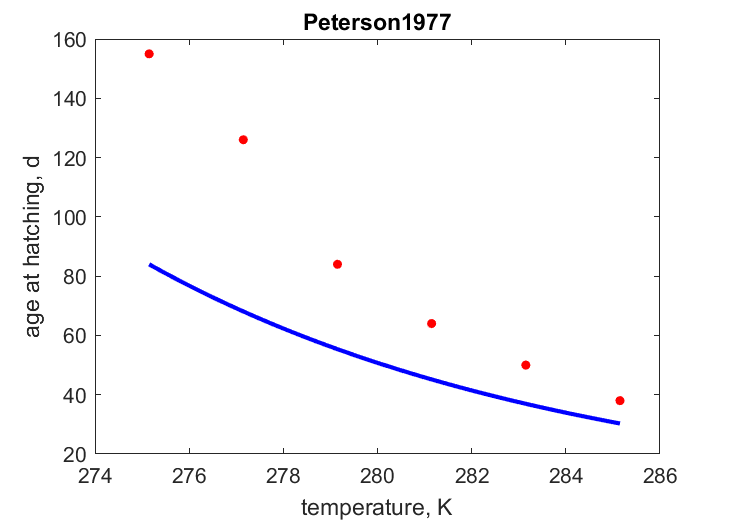
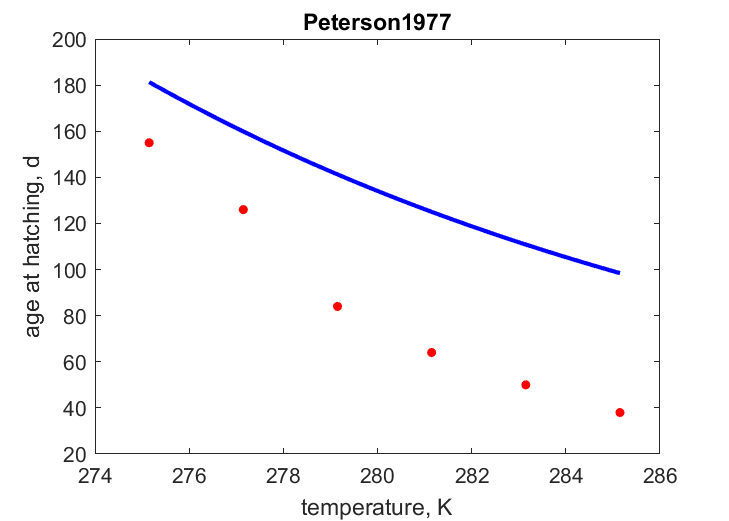
Made Arrhenius temperature a free parameter

diff --git a/Salmo_salar_res.html b/Salmo_salar_res.html
@@ -44,7 +44,7 @@
   </div>
 
   <div class="par">
-  <h4>COMPLETE = NaN; MRE =    0.821; SMSE =    0.845 </h4>
+  <h4>COMPLETE = NaN; MRE =    0.239; SMSE =    0.201 </h4>
   </div>
 
   <p class="clear"></p>
@@ -53,30 +53,31 @@
   <h2>Data & predictions</h2>
   <TABLE id="prd">
     <TR  class="head"><TH>data</TH> <TH>prd</TH> <TH>RE</TH>  <TH>symbol</TH> <TH>units</TH> <TH>description</TH> </TR>
-    <TR><TD>196</TD> <TD>70.53</TD> <TD>0.6402</TD> <TD>ab</TD> <TD>d</TD> <TD>age at birth</TD></TR>
-    <TR><TD>827.3</TD> <TD>138.1</TD> <TD>0.8331</TD> <TD>aj</TD> <TD>d</TD> <TD>age at metamorphosis</TD></TR>
-    <TR><TD>1335</TD> <TD>934.9</TD> <TD>0.2997</TD> <TD>ap</TD> <TD>d</TD> <TD>age at puberty</TD></TR>
-    <TR><TD>4748</TD> <TD>1567</TD> <TD>0.67</TD> <TD>am</TD> <TD>d</TD> <TD>life span</TD></TR>
-    <TR><TD>2.09</TD> <TD>0.369</TD> <TD>0.8235</TD> <TD>Lh</TD> <TD>cm</TD> <TD>total length at hatching</TD></TR>
-    <TR><TD>2.825</TD> <TD>0.3713</TD> <TD>0.8686</TD> <TD>Lb</TD> <TD>cm</TD> <TD>total length at birth</TD></TR>
-    <TR><TD> 12</TD> <TD>0.5665</TD> <TD>0.9528</TD> <TD>Lj</TD> <TD>cm</TD> <TD>total length at metamorphosis</TD></TR>
-    <TR><TD> 95</TD> <TD>6.676</TD> <TD>0.9297</TD> <TD>Li</TD> <TD>cm</TD> <TD>ultimate total length</TD></TR>
-    <TR><TD>0.09</TD> <TD>0.0003384</TD> <TD>0.9962</TD> <TD>V0</TD> <TD>cm^3</TD> <TD>egg volume</TD></TR>
-    <TR><TD>0.035</TD> <TD>6.768e-05</TD> <TD>0.9981</TD> <TD>Wd0</TD> <TD>g</TD> <TD>dry egg weight</TD></TR>
-    <TR><TD>0.1488</TD> <TD>0.0002409</TD> <TD>0.9984</TD> <TD>Wwh</TD> <TD>g</TD> <TD>wet weight at hatching</TD></TR>
-    <TR><TD>0.16</TD> <TD>0.0002455</TD> <TD>0.9985</TD> <TD>Wwb</TD> <TD>g</TD> <TD>wet weight at birth</TD></TR>
-    <TR><TD> 25</TD> <TD>0.0008721</TD> <TD>  1</TD> <TD>Wwj</TD> <TD>g</TD> <TD>wet weight at metamorphosis</TD></TR>
-    <TR><TD>757</TD> <TD>1.557</TD> <TD>0.9979</TD> <TD>E0</TD> <TD>J</TD> <TD>egg reserve energy</TD></TR>
-    <TR><TD>39.7</TD> <TD>1.253</TD> <TD>0.9684</TD> <TD>Ri</TD> <TD>#/d</TD> <TD>maximum reprod rate</TD></TR>
-    <TR><TD colspan="2">see figure</TD> <TD>0.3814</TD> <TD>Tah</TD> <TD colspan="2">temperature, <font color="blue"><i>vs.</i></font> age at hatching</TD>
-    <TR><TD colspan="2">see figure</TD> <TD>0.8778</TD> <TD>tL</TD> <TD colspan="2">time since birth, <font color="blue"><i>vs.</i></font> total length</TD>
-    <TR><TD colspan="2">see figure</TD> <TD>0.5501</TD> <TD>LWw</TD> <TD colspan="2">total length, <font color="blue"><i>vs.</i></font> wet weight</TD>
-    <TR class="psd"><TD>0.02</TD> <TD>0.02</TD> <TD>  0</TD> <TD>psd.v</TD> <TD>cm/d</TD> <TD>energy conductance</TD></TR>
-    <TR class="psd"><TD>0.8</TD> <TD>0.8</TD> <TD>  0</TD> <TD>psd.kap</TD> <TD>-</TD> <TD>allocation fraction to soma</TD></TR>
+    <TR><TD>196</TD> <TD>169.6</TD> <TD>0.1346</TD> <TD>ab</TD> <TD>d</TD> <TD>age at birth</TD></TR>
+    <TR><TD>827.3</TD> <TD>526.1</TD> <TD>0.364</TD> <TD>aj</TD> <TD>d</TD> <TD>age at metamorphosis</TD></TR>
+    <TR><TD>1335</TD> <TD>1023</TD> <TD>0.2336</TD> <TD>ap</TD> <TD>d</TD> <TD>age at puberty</TD></TR>
+    <TR><TD>4748</TD> <TD>4797</TD> <TD>0.01023</TD> <TD>am</TD> <TD>d</TD> <TD>life span</TD></TR>
+    <TR><TD>2.09</TD> <TD>2.163</TD> <TD>0.03499</TD> <TD>Lh</TD> <TD>cm</TD> <TD>total length at hatching</TD></TR>
+    <TR><TD>2.825</TD> <TD>2.231</TD> <TD>0.2103</TD> <TD>Lb</TD> <TD>cm</TD> <TD>total length at birth</TD></TR>
+    <TR><TD> 12</TD> <TD>12.29</TD> <TD>0.02414</TD> <TD>Lj</TD> <TD>cm</TD> <TD>total length at metamorphosis</TD></TR>
+    <TR><TD> 95</TD> <TD>116.4</TD> <TD>0.2252</TD> <TD>Li</TD> <TD>cm</TD> <TD>ultimate total length</TD></TR>
+    <TR><TD>0.09</TD> <TD>0.1455</TD> <TD>0.6172</TD> <TD>V0</TD> <TD>cm^3</TD> <TD>egg volume</TD></TR>
+    <TR><TD>0.035</TD> <TD>0.02911</TD> <TD>0.1683</TD> <TD>Wd0</TD> <TD>g</TD> <TD>dry egg weight</TD></TR>
+    <TR><TD>0.1488</TD> <TD>0.1119</TD> <TD>0.248</TD> <TD>Wwh</TD> <TD>g</TD> <TD>wet weight at hatching</TD></TR>
+    <TR><TD>0.16</TD> <TD>0.1227</TD> <TD>0.2329</TD> <TD>Wwb</TD> <TD>g</TD> <TD>wet weight at birth</TD></TR>
+    <TR><TD> 25</TD> <TD>20.52</TD> <TD>0.1792</TD> <TD>Wwj</TD> <TD>g</TD> <TD>wet weight at metamorphosis</TD></TR>
+    <TR><TD>1.313e+04</TD> <TD>1.743e+04</TD> <TD>0.3275</TD> <TD>Wwi_F</TD> <TD>g</TD> <TD>ultimate wet weight</TD></TR>
+    <TR><TD>757</TD> <TD>669.9</TD> <TD>0.1151</TD> <TD>E0</TD> <TD>J</TD> <TD>egg reserve energy</TD></TR>
+    <TR><TD>39.7</TD> <TD>22.39</TD> <TD>0.436</TD> <TD>Ri</TD> <TD>#/d</TD> <TD>maximum reprod rate</TD></TR>
+    <TR><TD colspan="2">see figure</TD> <TD>0.5798</TD> <TD>Tah</TD> <TD colspan="2">temperature, <font color="blue"><i>vs.</i></font> age at hatching</TD>
+    <TR><TD colspan="2">see figure</TD> <TD>0.2922</TD> <TD>tL</TD> <TD colspan="2">time since birth, <font color="blue"><i>vs.</i></font> total length</TD>
+    <TR><TD colspan="2">see figure</TD> <TD>0.1009</TD> <TD>LWw</TD> <TD colspan="2">total length, <font color="blue"><i>vs.</i></font> wet weight</TD>
+    <TR class="psd"><TD>0.02</TD> <TD>0.02203</TD> <TD>0.1013</TD> <TD>psd.v</TD> <TD>cm/d</TD> <TD>energy conductance</TD></TR>
+    <TR class="psd"><TD>0.8</TD> <TD>0.8813</TD> <TD>0.1017</TD> <TD>psd.kap</TD> <TD>-</TD> <TD>allocation fraction to soma</TD></TR>
     <TR class="psd"><TD>0.95</TD> <TD>0.95</TD> <TD>  0</TD> <TD>psd.kap_R</TD> <TD>-</TD> <TD>reproduction efficiency</TD></TR>
-    <TR class="psd"><TD> 18</TD> <TD> 18</TD> <TD>  0</TD> <TD>psd.p_M</TD> <TD>J/d.cm^3</TD> <TD>vol-spec som maint</TD></TR>
+    <TR class="psd"><TD> 18</TD> <TD>24.05</TD> <TD>0.3363</TD> <TD>psd.p_M</TD> <TD>J/d.cm^3</TD> <TD>vol-spec som maint</TD></TR>
     <TR class="psd"><TD>0.002</TD> <TD>0.002</TD> <TD>  0</TD> <TD>psd.k_J</TD> <TD>1/d</TD> <TD>maturity maint rate coefficient</TD></TR>
-    <TR class="psd"><TD>0.8</TD> <TD>0.8046</TD> <TD>0.005793</TD> <TD>psd.kap_G</TD> <TD>-</TD> <TD>growth efficiency</TD></TR>
+    <TR class="psd"><TD>0.8</TD> <TD>0.8279</TD> <TD>0.03493</TD> <TD>psd.kap_G</TD> <TD>-</TD> <TD>growth efficiency</TD></TR>
   </TABLE>
   </div>
 
@@ -85,25 +86,25 @@
   <TABLE id="par">
     <TR class="head"><TH>symbol</TH> <TH>units</TH> <TH>value</TH>  <TH>free</TH> <TH>description</TH> </TR>
     <TR><TD>T_ref</TD> <TD>K</TD> <TD>293.1</TD> <TD>0</TD> <TD>Reference temperature</TD></TR>
-    <TR><TD>z</TD> <TD>-</TD> <TD>  1</TD> <TD>1</TD> <TD>zoom factor</TD></TR>
+    <TR><TD>z</TD> <TD>-</TD> <TD>5.332</TD> <TD>1</TD> <TD>zoom factor</TD></TR>
     <TR><TD>F_m</TD> <TD>l/d.cm^2</TD> <TD>6.5</TD> <TD>0</TD> <TD>{F_m}, max spec searching rate</TD></TR>
     <TR><TD>kap_X</TD> <TD>-</TD> <TD>0.8</TD> <TD>0</TD> <TD>digestion efficiency of food to reserve</TD></TR>
     <TR><TD>kap_P</TD> <TD>-</TD> <TD>0.1</TD> <TD>0</TD> <TD>faecation efficiency of food to faeces</TD></TR>
-    <TR><TD>v</TD> <TD>cm/d</TD> <TD>0.02</TD> <TD>1</TD> <TD>energy conductance</TD></TR>
-    <TR><TD>kap</TD> <TD>-</TD> <TD>0.8</TD> <TD>1</TD> <TD>allocation fraction to soma</TD></TR>
+    <TR><TD>v</TD> <TD>cm/d</TD> <TD>0.02203</TD> <TD>1</TD> <TD>energy conductance</TD></TR>
+    <TR><TD>kap</TD> <TD>-</TD> <TD>0.8813</TD> <TD>1</TD> <TD>allocation fraction to soma</TD></TR>
     <TR><TD>kap_R</TD> <TD>-</TD> <TD>0.95</TD> <TD>0</TD> <TD>reproduction efficiency</TD></TR>
-    <TR><TD>p_M</TD> <TD>J/d.cm^3</TD> <TD> 18</TD> <TD>1</TD> <TD>[p_M], vol-spec somatic maint</TD></TR>
+    <TR><TD>p_M</TD> <TD>J/d.cm^3</TD> <TD>24.05</TD> <TD>1</TD> <TD>[p_M], vol-spec somatic maint</TD></TR>
     <TR><TD>p_T</TD> <TD>J/d.cm^2</TD> <TD>  0</TD> <TD>0</TD> <TD>{p_T}, surf-spec somatic maint</TD></TR>
     <TR><TD>k_J</TD> <TD>1/d</TD> <TD>0.002</TD> <TD>0</TD> <TD>maturity maint rate coefficient</TD></TR>
-    <TR><TD>E_G</TD> <TD>J/cm^3</TD> <TD>5200</TD> <TD>1</TD> <TD>[E_G], spec cost for structure</TD></TR>
-    <TR><TD>E_Hh</TD> <TD>J</TD> <TD>0.27</TD> <TD>1</TD> <TD>maturity at hatch</TD></TR>
-    <TR><TD>E_Hb</TD> <TD>J</TD> <TD>0.275</TD> <TD>1</TD> <TD>maturity at birth</TD></TR>
-    <TR><TD>E_Hj</TD> <TD>J</TD> <TD>  1</TD> <TD>1</TD> <TD>maturity at metamorphosis</TD></TR>
-    <TR><TD>E_Hp</TD> <TD>J</TD> <TD> 50</TD> <TD>1</TD> <TD>maturity at puberty</TD></TR>
-    <TR><TD>h_a</TD> <TD>1/d^2</TD> <TD>1e-06</TD> <TD>1</TD> <TD>Weibull aging acceleration</TD></TR>
+    <TR><TD>E_G</TD> <TD>J/cm^3</TD> <TD>5054</TD> <TD>1</TD> <TD>[E_G], spec cost for structure</TD></TR>
+    <TR><TD>E_Hh</TD> <TD>J</TD> <TD>40.03</TD> <TD>1</TD> <TD>maturity at hatch</TD></TR>
+    <TR><TD>E_Hb</TD> <TD>J</TD> <TD>44.05</TD> <TD>1</TD> <TD>maturity at birth</TD></TR>
+    <TR><TD>E_Hj</TD> <TD>J</TD> <TD>7756</TD> <TD>1</TD> <TD>maturity at metamorphosis</TD></TR>
+    <TR><TD>E_Hp</TD> <TD>J</TD> <TD>1.985e+04</TD> <TD>1</TD> <TD>maturity at puberty</TD></TR>
+    <TR><TD>h_a</TD> <TD>1/d^2</TD> <TD>5.294e-08</TD> <TD>1</TD> <TD>Weibull aging acceleration</TD></TR>
     <TR><TD>s_G</TD> <TD>-</TD> <TD>0.0001</TD> <TD>0</TD> <TD>Gompertz stress coefficient</TD></TR>
-    <TR><TD>T_A</TD> <TD>K</TD> <TD>8000</TD> <TD>0</TD> <TD>Arrhenius temperature</TD></TR>
-    <TR><TD>del_M</TD> <TD>-</TD> <TD>0.16</TD> <TD>1</TD> <TD>shape coefficient</TD></TR>
+    <TR><TD>T_A</TD> <TD>K</TD> <TD>4791</TD> <TD>1</TD> <TD>Arrhenius temperature</TD></TR>
+    <TR><TD>del_M</TD> <TD>-</TD> <TD>0.1767</TD> <TD>1</TD> <TD>shape coefficient</TD></TR>
     <TR><TD>f</TD> <TD>-</TD> <TD>0.7</TD> <TD>0</TD> <TD>scaled functional response for 0-var data</TD></TR>
     <TR><TD>f_Tah</TD> <TD>-</TD> <TD>  1</TD> <TD>0</TD> <TD>scaled functional response for temperature-age at hatching data</TD></TR>
     <TR><TD>f_tL</TD> <TD>-</TD> <TD>  1</TD> <TD>0</TD> <TD>scaled functional response for time-length data</TD></TR>

diff --git a/pars_init_Salmo_salar.m b/pars_init_Salmo_salar.m
@@ -25,7 +25,7 @@ par.h_a   = 1e-6;  free.h_a   = 1;   units.h_a   = '1/d^2';    label.h_a   = 'We
 par.s_G   = 1e-4;  free.s_G   = 0;   units.s_G   = '-';        label.s_G   = 'Gompertz stress coefficient';
 
 %% auxiliary parameters
-par.T_A   = 8000;   free.T_A   = 0;    units.T_A = 'K';        label.T_A = 'Arrhenius temperature';
+par.T_A   = 8000;   free.T_A   = 1;    units.T_A = 'K';        label.T_A = 'Arrhenius temperature';
 par.del_M = 0.16;   free.del_M = 1;    units.del_M = '-';      label.del_M = 'shape coefficient';
 
 %% environmental parameters (temperatures are in auxData)
